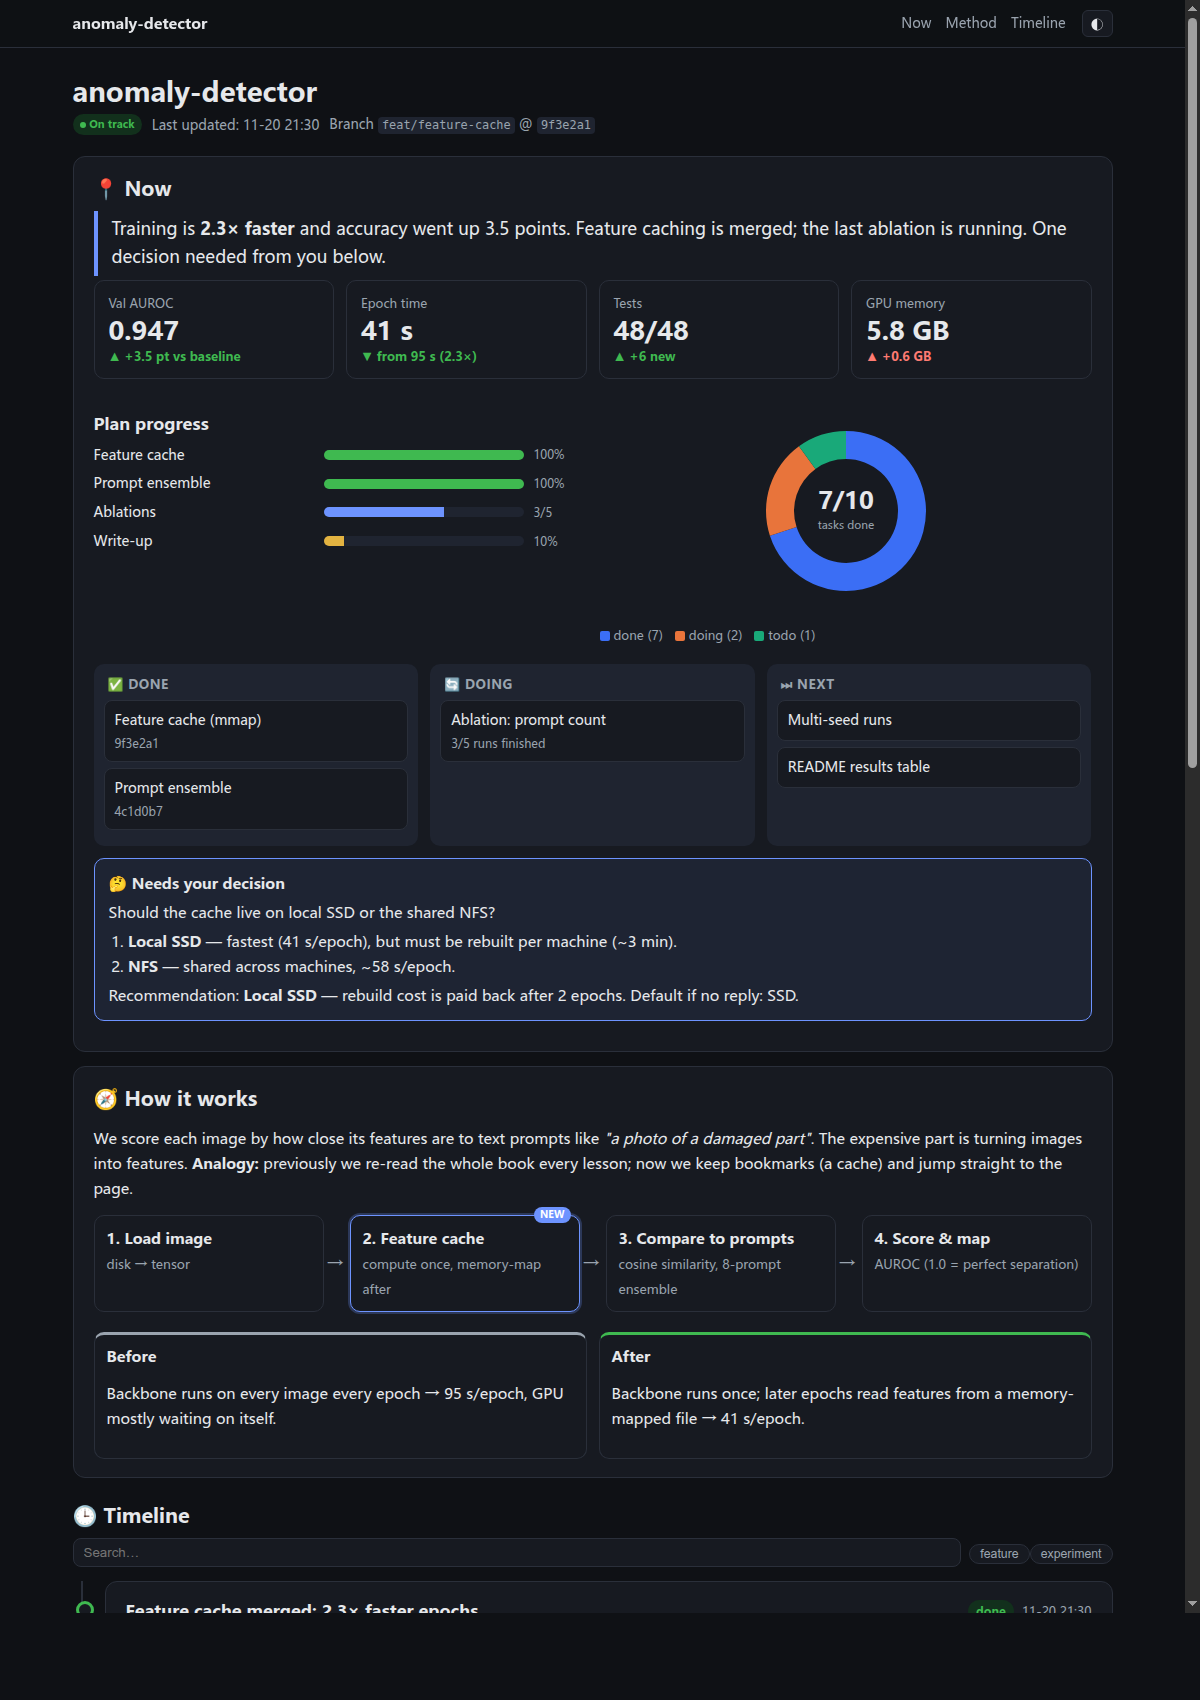
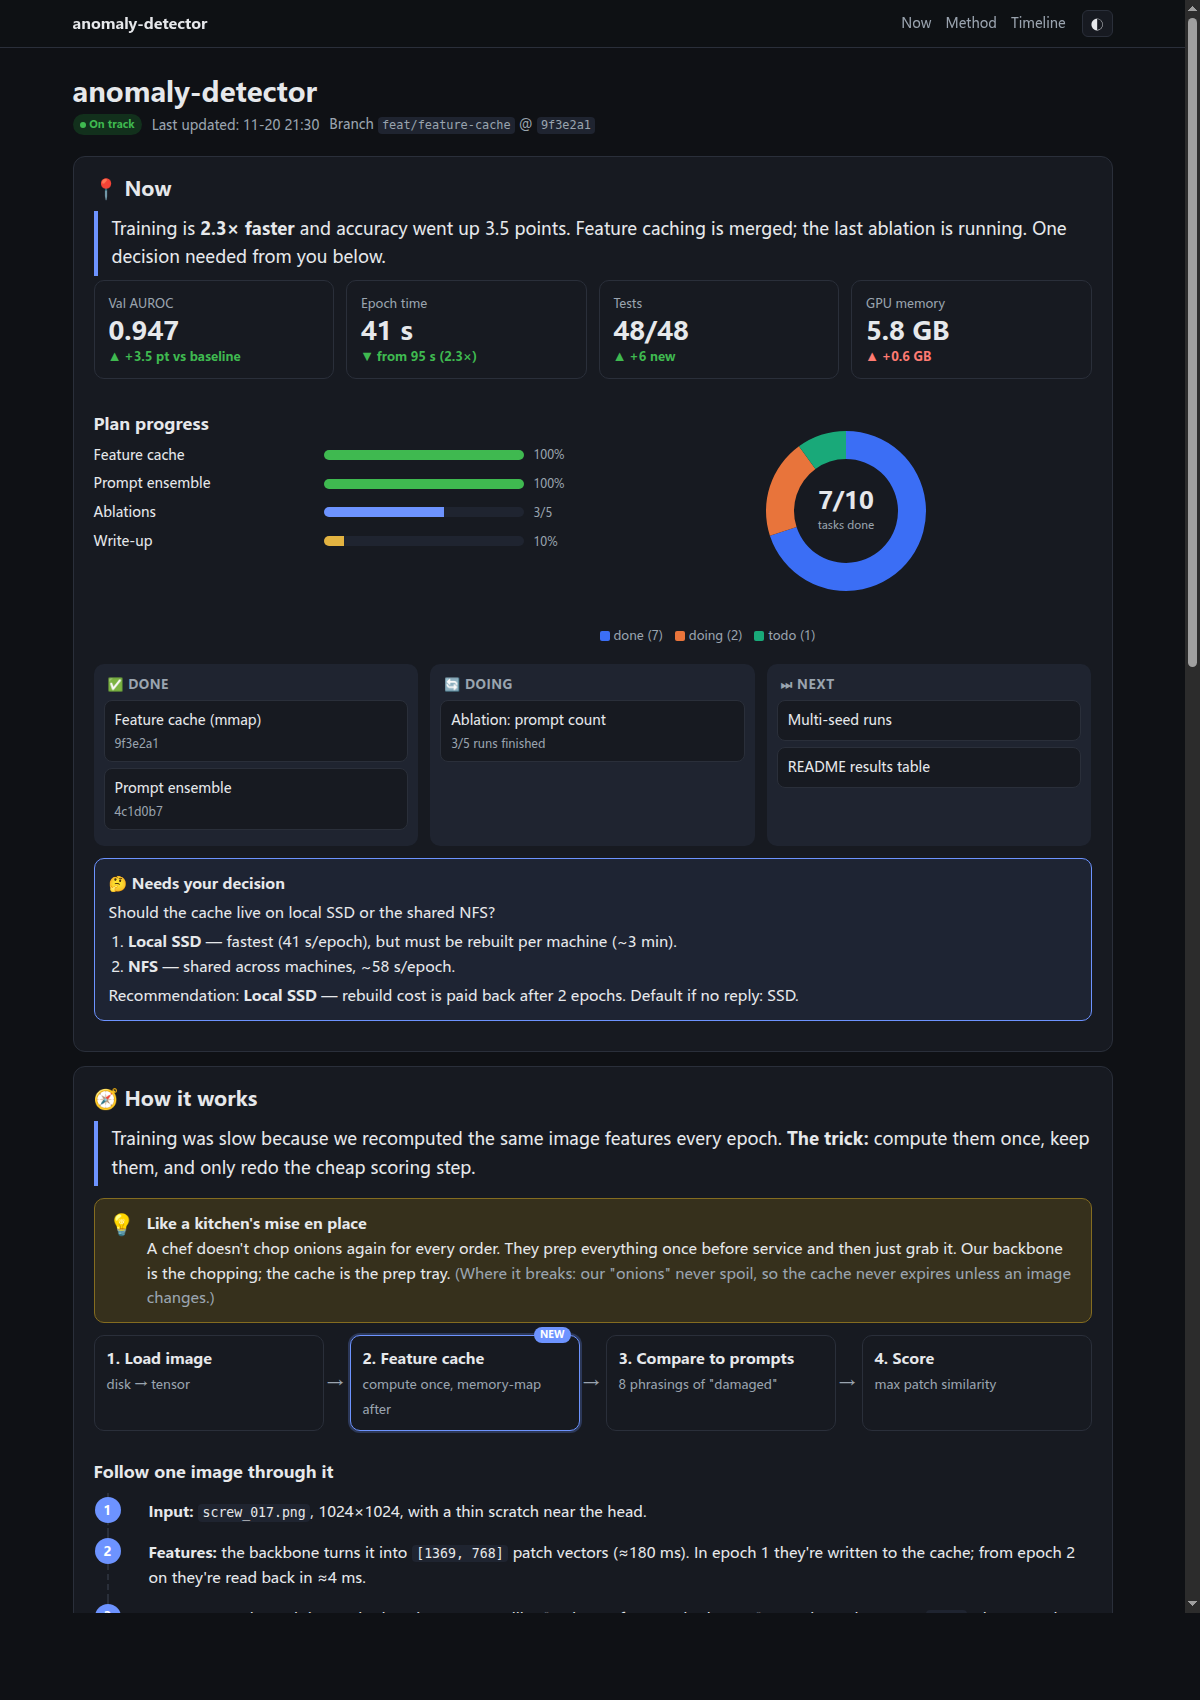
Method section: vivid recipe (analogy, walkthrough, why-this-design) + validator checks

Changed region(s): [[0.0617, 0.6547, 0.925, 0.9665], [0.9867, 0.3741, 1.0, 0.4676]]

diff --git a/examples/demo.html b/examples/demo.html
@@ -97,6 +97,19 @@ h3{font-size:1.05rem}
 .flow .step b{display:block}
 .flow .step.hl{border-color:var(--accent);box-shadow:0 0 0 2px color-mix(in srgb,var(--accent) 25%,transparent)}
 .flow .step.new::before{content:"NEW";position:absolute;top:-9px;right:8px;font-size:.65em;font-weight:700;background:var(--accent);color:#fff;padding:0 6px;border-radius:999px}
+/* analogy + walkthrough (method section) */
+.analogy{display:flex;gap:12px;align-items:flex-start;border-radius:10px;padding:12px 14px;margin:12px 0;background:color-mix(in srgb,var(--c5) 14%,var(--panel));border:1px solid color-mix(in srgb,var(--c5) 45%,var(--line))}
+.analogy::before{content:"💡";font-size:1.4em;line-height:1.2}
+.analogy>div>b:first-child{display:block}
+.walk{list-style:none;counter-reset:w;padding:0;margin:10px 0}
+.walk>li{counter-increment:w;position:relative;padding:6px 0 10px 40px;border-left:2px dashed var(--line);margin-left:13px}
+.walk>li:last-child{border-left-color:transparent}
+.walk>li::before{content:counter(w);position:absolute;left:-14px;top:4px;width:26px;height:26px;border-radius:50%;background:var(--accent);color:#fff;font-weight:700;font-size:.85em;display:flex;align-items:center;justify-content:center}
+.walk>li code{white-space:nowrap}
+.why{display:grid;grid-template-columns:repeat(auto-fit,minmax(240px,1fr));gap:10px;margin:10px 0}
+.why>div{border:1px solid var(--line);border-radius:10px;padding:10px 12px;background:var(--panel)}
+.why>div>b:first-child{display:block;margin-bottom:2px}
+.why .rejected{color:var(--muted);font-size:.88em;display:block;margin-top:4px}
 /* compare */
 .compare{display:grid;grid-template-columns:1fr 1fr;gap:12px}
 @media(max-width:760px){.compare{grid-template-columns:1fr}}
@@ -206,18 +219,28 @@ details[open]>summary{margin-bottom:8px}
 <!-- @method:start -->
 <section id="method" class="panel">
   <h2>🧭 How it works</h2>
-  <p>We score each image by how close its features are to text prompts like <i>"a photo of a damaged part"</i>.
-  The expensive part is turning images into features. <b>Analogy:</b> previously we re-read the whole book every lesson; now we keep bookmarks (a cache) and jump straight to the page.</p>
+  <p class="tldr">Training was slow because we recomputed the same image features every epoch. <b>The trick:</b> compute them once, keep them, and only redo the cheap scoring step.</p>
+  <div class="analogy"><div><b>Like a kitchen's mise en place</b>A chef doesn't chop onions again for every order. They prep everything once before service and then just grab it. Our backbone is the chopping; the cache is the prep tray. <span class="muted">(Where it breaks: our "onions" never spoil, so the cache never expires unless an image changes.)</span></div></div>
   <div class="flow">
     <div class="step"><b>1. Load image</b><span class="small muted">disk → tensor</span></div>
     <div class="step hl new"><b>2. Feature cache</b><span class="small muted">compute once, memory-map after</span></div>
-    <div class="step"><b>3. Compare to prompts</b><span class="small muted">cosine similarity, 8-prompt ensemble</span></div>
-    <div class="step"><b>4. Score &amp; map</b><span class="small muted">AUROC (1.0 = perfect separation)</span></div>
+    <div class="step"><b>3. Compare to prompts</b><span class="small muted">8 phrasings of "damaged"</span></div>
+    <div class="step"><b>4. Score</b><span class="small muted">max patch similarity</span></div>
   </div>
-  <div class="compare">
-    <div><h4>Before</h4><p>Backbone runs on every image every epoch → 95 s/epoch, GPU mostly waiting on itself.</p></div>
-    <div><h4>After</h4><p>Backbone runs once; later epochs read features from a memory-mapped file → 41 s/epoch.</p></div>
+  <h3>Follow one image through it</h3>
+  <ol class="walk">
+    <li><b>Input:</b> <code>screw_017.png</code>, 1024×1024, with a thin scratch near the head.</li>
+    <li><b>Features:</b> the backbone turns it into <code>[1369, 768]</code> patch vectors (≈180 ms). In epoch 1 they're written to the cache; from epoch 2 on they're read back in ≈4 ms.</li>
+    <li><b>Compare:</b> each patch is matched against prompts like <i>"a photo of a scratched screw"</i>. Scratch patches score <code>0.83</code>; clean metal stays around <code>0.21</code>.</li>
+    <li><b>Result:</b> image score <code>0.83</code> &gt; threshold <code>0.5</code> → flagged as defective ✅</li>
+  </ol>
+  <h3>Why this design</h3>
+  <div class="why">
+    <div><b>Memory-mapped file</b>Survives restarts, and the OS pages data in and out for us.<span class="rejected">✗ In-RAM dict: 14 GB, lost on crash</span></div>
+    <div><b>Key = file content hash</b>An edited image invalidates itself automatically.<span class="rejected">✗ Key = path: silently stale after edits</span></div>
+    <div><b>8-prompt ensemble</b>Asking a panel instead of one judge smooths out wording quirks.<span class="rejected">✗ 16 prompts: no gain, slower</span></div>
   </div>
+  <div class="callout note"><strong>ℹ Limits</strong>Only helps when the backbone is frozen. If we fine-tune it, the cache must be rebuilt every epoch.</div>
 </section>
 <!-- @method:end -->
 

diff --git a/assets/template.html b/assets/template.html
@@ -97,6 +97,19 @@ h3{font-size:1.05rem}
 .flow .step b{display:block}
 .flow .step.hl{border-color:var(--accent);box-shadow:0 0 0 2px color-mix(in srgb,var(--accent) 25%,transparent)}
 .flow .step.new::before{content:"NEW";position:absolute;top:-9px;right:8px;font-size:.65em;font-weight:700;background:var(--accent);color:#fff;padding:0 6px;border-radius:999px}
+/* analogy + walkthrough (method section) */
+.analogy{display:flex;gap:12px;align-items:flex-start;border-radius:10px;padding:12px 14px;margin:12px 0;background:color-mix(in srgb,var(--c5) 14%,var(--panel));border:1px solid color-mix(in srgb,var(--c5) 45%,var(--line))}
+.analogy::before{content:"💡";font-size:1.4em;line-height:1.2}
+.analogy>div>b:first-child{display:block}
+.walk{list-style:none;counter-reset:w;padding:0;margin:10px 0}
+.walk>li{counter-increment:w;position:relative;padding:6px 0 10px 40px;border-left:2px dashed var(--line);margin-left:13px}
+.walk>li:last-child{border-left-color:transparent}
+.walk>li::before{content:counter(w);position:absolute;left:-14px;top:4px;width:26px;height:26px;border-radius:50%;background:var(--accent);color:#fff;font-weight:700;font-size:.85em;display:flex;align-items:center;justify-content:center}
+.walk>li code{white-space:nowrap}
+.why{display:grid;grid-template-columns:repeat(auto-fit,minmax(240px,1fr));gap:10px;margin:10px 0}
+.why>div{border:1px solid var(--line);border-radius:10px;padding:10px 12px;background:var(--panel)}
+.why>div>b:first-child{display:block;margin-bottom:2px}
+.why .rejected{color:var(--muted);font-size:.88em;display:block;margin-top:4px}
 /* compare */
 .compare{display:grid;grid-template-columns:1fr 1fr;gap:12px}
 @media(max-width:760px){.compare{grid-template-columns:1fr}}
@@ -180,8 +193,13 @@ details[open]>summary{margin-bottom:8px}
 <!-- @method:start -->
 <section id="method" class="panel">
   <h2>🧭 How it works</h2>
-  <p>{{PLAIN_LANGUAGE_EXPLANATION_OF_THE_APPROACH}}</p>
-  <!-- flow diagram, analogy, key design choices -->
+  <!-- Method recipe (see references/writing-guide.md §Method): problem → analogy → diagram → walkthrough → why this design → limits -->
+  <p class="tldr">{{PROBLEM_AND_IDEA_IN_ONE_PLAIN_SENTENCE}}</p>
+  <div class="analogy"><div><b>{{ANALOGY_TITLE}}</b>{{EVERYDAY_ANALOGY_AND_WHERE_IT_BREAKS}}</div></div>
+  <!-- .flow or .mermaid diagram of the pipeline -->
+  <!-- <ol class="walk"> trace ONE concrete input through every step with real values -->
+  <!-- <div class="why"> key design choices: why this, what was rejected -->
+  <!-- limits / when it fails -->
 </section>
 <!-- @method:end -->
 

diff --git a/scripts/check_page.py b/scripts/check_page.py
@@ -100,6 +100,18 @@ def main(path: str) -> int:
         left = sorted(set(re.findall(r"\{\{[A-Z_]+\}\}", text)))
         if left:
             c.errors.append(f"unfilled placeholders: {', '.join(left)}")
+    m = re.search(r"<!-- @method:start -->(.*?)<!-- @method:end -->", text, re.S)
+    if m:
+        body = m.group(1)
+        has = lambda *cls: any(re.search(r'class="[^"]*\b%s\b' % k, body) for k in cls)
+        if not has("analogy"):
+            c.warnings.append("method: no .analogy block (explain the idea with an everyday analogy)")
+        if not has("flow", "mermaid"):
+            c.warnings.append("method: no diagram (.flow or .mermaid)")
+        if not has("walk"):
+            c.warnings.append("method: no .walk walkthrough (trace one concrete example)")
+        if not has("why"):
+            c.warnings.append("method: no .why block (key design choices and rejected alternatives)")
     c.feed(text)
     c.close()
     for t, l in c.stack:

diff --git a/references/writing-guide.md b/references/writing-guide.md
@@ -24,6 +24,31 @@ Every block follows **What → Why → Result → Next**.
 - Numbers always come with a comparison: `0.912 → 0.947 (+3.5 pt)`, not just `0.947`.
 - Say *why it matters*: "…so the nightly job now finishes before 8 am."
 
+## 2b. The Method section: vivid, concrete, visual
+
+The Method block is where the reader builds a mental model. A good one lets them
+explain the approach to a colleague afterwards. A list of module names doesn't do that.
+**Test:** could a smart engineer from a *different* field retell it after one read?
+
+Follow this recipe in order. Each step maps to a component:
+
+| # | Step | Component | Rule of thumb |
+|---|---|---|---|
+| 1 | **Problem + idea in one sentence** | `p.tldr` | "X is slow/wrong because Y; we fix it by Z." No jargon. |
+| 2 | **Everyday analogy** | `.analogy` | A familiar scene (kitchen, library, post office, traffic…) that maps to the mechanism. Then say **where the analogy breaks**, one clause. |
+| 3 | **Picture of the pipeline** | `.flow` or `.mermaid` | 3–6 boxes, each with a short label and a muted one-line role. Mark changed parts `hl new`. |
+| 4 | **Walk one real example through it** | `ol.walk` | Follow one concrete input step by step with *real values* from the project (a file name, a tensor shape, a score). This is what makes it click. |
+| 5 | **Why this design** | `.why` | 2–4 cards: the choice, the reason, and the alternative that was rejected and why. |
+| 6 | **Limits** | `callout note` / `risk` | When it fails or what it assumes. Keep it honest and short. |
+
+Vividness rules:
+- **Concrete beats abstract.** Say "a 1024×1024 photo of a scratched screw", not "an input sample".
+- **Verbs over nouns.** Say "the cache *remembers* features", not "feature memoization is applied".
+- **One analogy, used consistently.** Don't switch metaphors halfway through.
+- **Name the "aha".** One bold sentence for the key insight: "**The trick:** we only pay the expensive step once."
+- **Show the numbers flowing.** Put intermediate values in `<code>` inside the walkthrough, e.g. `[1, 768]` → `0.83`.
+- **Avoid:** a wall of module names, unexplained acronyms, copying the code structure as the explanation, marketing words ("powerful", "robust", "novel").
+
 ## 3. Honest status
 
 - Use status colours consistently: ok = done/working, warn = partial/risky/unverified, bad = failed/blocked, info = neutral.

diff --git a/README.md b/README.md
@@ -41,6 +41,7 @@ it visually, so you can follow along without reading diffs.
 | 📄 **One living page** | The page is updated in place, not regenerated as a new report each time. The agent rewrites the *Now* snapshot and **prepends** one timeline entry per milestone. Old entries are never deleted. |
 | 🆕 **Catch-up mode** | Entries added since your last visit get a **NEW** tag. You can filter the timeline by tag (`feature`, `fix`, `experiment`, …) and search it. |
 | 🗣 **Plain language** | Conclusion first; *what → why → result → next*; jargon is defined on first use; one-line analogies for mechanisms; numbers always shown with a comparison (`0.912 → 0.947`). |
+| 🎨 **Vivid method explanations** | The *How it works* section follows a fixed recipe: the problem and idea in one sentence → an everyday **analogy** → a **diagram** → **one real example traced step by step with real values** → **why this design** (with rejected alternatives) → limits. The validator warns if any part is missing. |
 | 📈 **Visual-first** | KPI cards, progress bars, task board, flow diagrams, before/after, line / bar / hbar / donut charts, sortable tables, file trees, colored diffs, collapsible details. Every timeline entry includes at least one visual. |
 | 🧭 **"Needs your decision"** | Questions that block progress are pinned at the top. Each one lists the options, the trade-offs, the agent's recommendation, and what it will do by default if you don't answer. |
 | 🧪 **Honest by design** | Every number must come from a command output or a file. Unverified claims carry an `unverified` badge. Dead ends get their own entries. |
@@ -68,7 +69,7 @@ The page has four regions. Each one is fenced by markers, so the agent edits onl
 ```
 ┌ header      status badge · last updated · branch@commit        → rewritten each update
 ├ 📍 Now      TL;DR · KPIs · task board · ⚠ needs your decision   → rewritten each update
-├ 🧭 Method   plain-language "how it works" + diagram              → edited only when the approach changes
+├ 🧭 Method   analogy · diagram · worked example · why-this-design  → edited only when the approach changes
 └ 🕒 Timeline newest first, one entry per milestone               → prepend only; archived after ~30 entries
 ```
 

diff --git a/references/components.md b/references/components.md
@@ -11,6 +11,9 @@ No dependencies; everything works offline (except optional Mermaid).
 | How far along a plan / sub-tasks are | **Progress bars**, **donut** |
 | What's done / in progress / next | **Task board** |
 | How a method or pipeline works | **Flow** (offline) or **Mermaid** |
+| The intuition behind a method | **Analogy** |
+| How one real input travels through it | **Walkthrough** (`ol.walk`) |
+| Why it is built this way | **Why** cards |
 | Old vs. new behaviour / design | **Compare** |
 | Metric over time / steps / epochs | **Line chart** |
 | Comparing variants, ablations | **Bar chart** / **hbar** / **sortable table** |
@@ -88,6 +91,31 @@ flowchart LR
   B -- yes --> C[Load cache]
   B -- no --> D[Compute] --> C
 </pre>
+```
+
+## Analogy (method section)
+```html
+<div class="analogy"><div><b>Like a restaurant kitchen's mise en place</b>
+Chefs chop all vegetables once before service, then just grab them per order. We compute image
+features once, then every epoch just grabs them. <span class="muted">(Where it breaks: our "vegetables" never spoil, so the cache never expires.)</span></div></div>
+```
+
+## Walkthrough: one concrete example, step by step
+```html
+<ol class="walk">
+  <li><b>Input:</b> <code>screw_017.png</code>, 1024×1024, a thin scratch near the head.</li>
+  <li><b>Features:</b> backbone → <code>[1369, 768]</code> patch vectors, saved to cache (first epoch only).</li>
+  <li><b>Compare:</b> each patch vs. 8 "damaged" prompts → similarity map; scratch patches score <code>0.83</code>, others <code>≈0.21</code>.</li>
+  <li><b>Result:</b> image score <code>0.83</code> &gt; threshold <code>0.5</code> → flagged as defective ✅</li>
+</ol>
+```
+
+## Why this design (choices and rejected alternatives)
+```html
+<div class="why">
+  <div><b>Memory-mapped file</b>Survives restarts, and the OS handles paging.<span class="rejected">✗ In-RAM dict: 14 GB, lost on crash</span></div>
+  <div><b>Key = file hash</b>Edited images invalidate themselves automatically.<span class="rejected">✗ Key = path: stale after edits</span></div>
+</div>
 ```
 
 ## Compare (before / after)

diff --git a/README.zh-CN.md b/README.zh-CN.md
@@ -37,6 +37,7 @@
 | 📄 **只有一个页面** | 不会每次都生成一份新报告。agent 每次重写“当前状态（Now）”，并在时间线**最前面**加一条记录，旧记录永不删除 |
 | 🆕 **快速跟进** | 上次查看之后新增的记录会标 **NEW**；时间线可以按标签（`feature`、`fix`、`experiment` 等）筛选，也可以全文搜索 |
 | 🗣 **通俗易懂** | 先说结论，按“做了什么 → 为什么 → 结果 → 下一步”写；术语第一次出现要解释，复杂机制配一句类比；数字一定给出对比（`0.912 → 0.947`） |
+| 🎨 **方法讲得生动** | “How it works”部分按固定顺序写：一句话讲清问题和思路 → 一个生活化的**类比** → **流程图** → 拿**一个真实例子、带真实数值逐步走一遍** → **为什么这样设计**（以及放弃了哪些方案）→ 适用范围和局限。缺了哪一步，校验脚本都会给出警告 |
 | 📈 **可视化优先** | 指标卡、进度条、任务看板、流程图、改前改后对比、折线图、柱状图、横向条形图、环形图、可排序表格、文件树、彩色 diff、折叠详情。每条时间线至少带一个图 |
 | 🧭 **“需要你决定”置顶** | 卡住进度的问题固定在页面顶部，写明有哪些选项、各自的利弊、agent 的推荐，以及你不回复时它默认怎么做 |
 | 🧪 **如实记录** | 页面上每个数字都必须来自命令输出或文件；没验证过的标 `unverified`；走不通的尝试也单独记一条 |
@@ -64,7 +65,7 @@ flowchart LR
 ```
 ┌ 页头      状态徽章 · 更新时间 · 分支@commit          → 每次更新都重写
 ├ 📍 Now    一句话总结 · 指标 · 看板 · ⚠ 需要你决定    → 每次更新都重写
-├ 🧭 Method 大白话解释“怎么做的” + 流程图            → 只有方法变了才改
+├ 🧭 Method 类比 · 流程图 · 实例走一遍 · 设计理由    → 只有方法变了才改
 └ 🕒 时间线 最新的在最上面，一个阶段一条              → 只加不删，超过约 30 条就归档
 ```
 

diff --git a/SKILL.md b/SKILL.md
@@ -25,7 +25,7 @@ after hours away. Optimize for *fast re-orientation*, not formality.
 ```
 ┌ header      status badge · last updated · branch@commit        (rewrite)
 ├ 📍 Now      TL;DR · KPIs · task board · ⚠ needs your decision   (rewrite)
-├ 🧭 Method   plain-language "how it works" + diagram              (edit only when the approach changes)
+├ 🧭 Method   analogy · diagram · worked example · why-this-design (edit only when the approach changes)
 └ 🕒 Timeline newest first; one entry per milestone               (prepend, never delete)
 ```
 
@@ -65,6 +65,10 @@ Each region is fenced by HTML comment markers. **Only edit inside markers.**
   not one tool call.
 - Rewrite **Now** to reflect the present state — it must make sense without reading the timeline.
 - Touch **Method** only if the design changed; then mention it in the entry ("method updated").
+- When you write or rewrite **Method**, it must be *vivid*: follow the 6-step recipe in
+  `references/writing-guide.md` §2b: one-sentence problem+idea → everyday **analogy** (`.analogy`) →
+  **diagram** (`.flow`/`.mermaid`) → **walkthrough of one real example with real values** (`ol.walk`) →
+  **why this design** with rejected alternatives (`.why`) → limits. The validator warns if any are missing.
 
 ### 4. Write it (directly in HTML, using components)
 - Follow `references/writing-guide.md` for language and structure (conclusion first,
